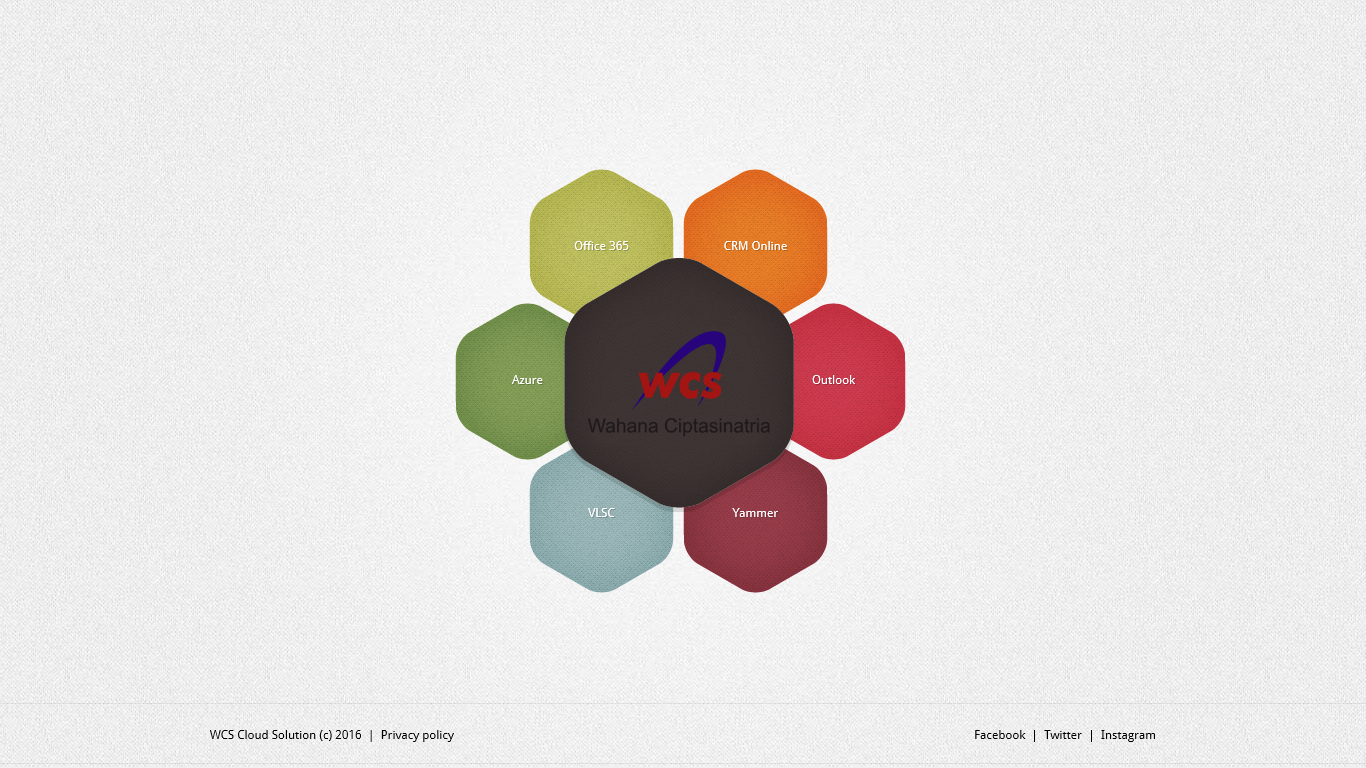
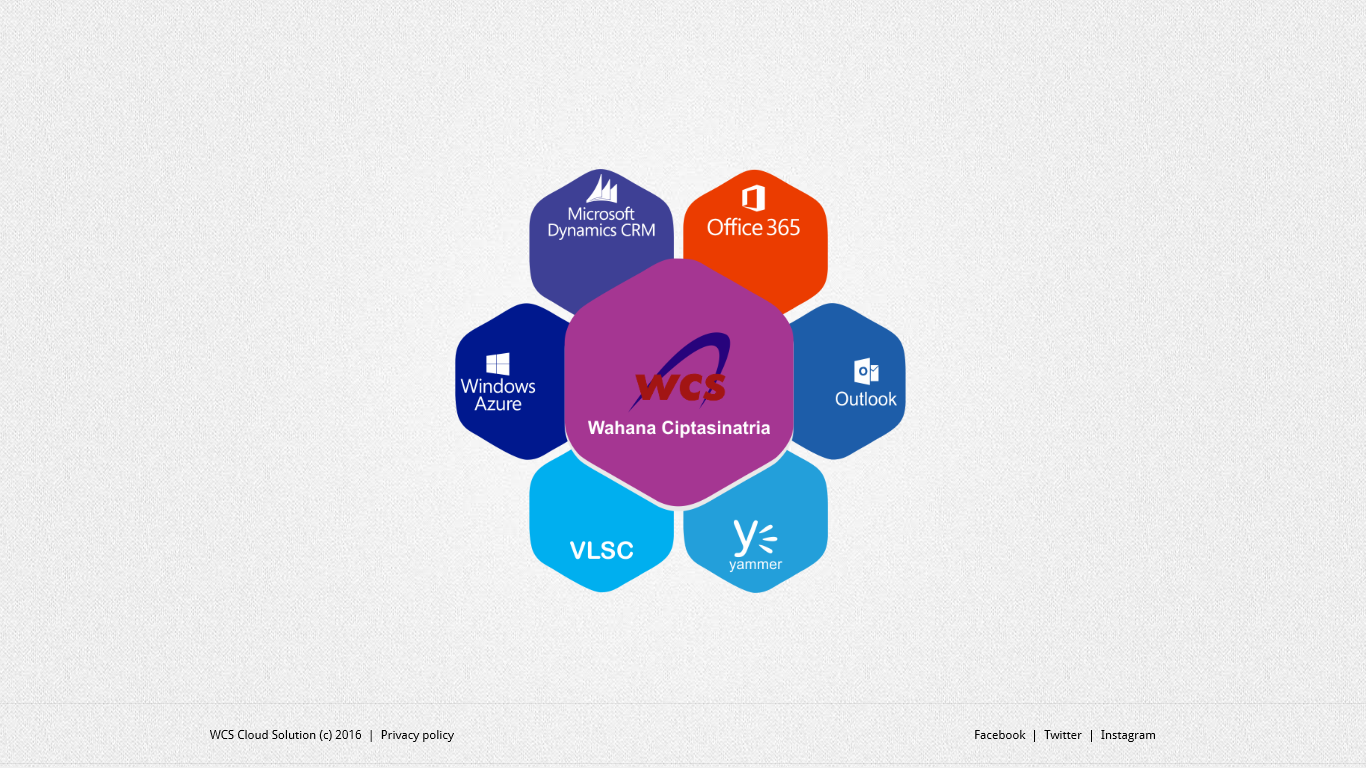
commit
update versi 3

Changed region(s): [[0.3075, 0.2188, 0.6764, 0.7812]]

diff --git a/v3/index.html b/v3/index.html
@@ -1,0 +1,45 @@
+<!DOCTYPE html>
+
+<title>Portal</title>
+
+<html lang="en">
+<head>
+  <title>Portal</title>
+  <link rel="stylesheet" href="css/wcs.css" type="text/css" media="all">
+</head>
+
+<body background="images/bg.png">
+	<div id="wrapper">
+		<div id="header">
+			<br><br>
+			<ul id="social_side_links">
+				<li><a href="https://www.facebook.com/wcs.cloudsolution/" target="_blank"><img src="images/fb.png" alt="" /></a></li>
+				<li><a href="https://twitter.com/wcscloud" target="_blank"><img src="images/tw.png" alt="" /></a></li>
+				<li><a href="https://www.instagram.com/wcscloud/" target="_blank"><img src="images/ig.png" alt="" /></a></li>
+			</ul>
+		</div>
+		<div id="content">
+			<center>
+				<img src="images/main.png" width="33%" height="33%" alt="WCS Cloud"
+				usemap="#wcsmap">
+			</center>
+
+			<map name="wcsmap">
+			  <area shape="poly" coords="224,82, 339,149, 339,279, 224,346, 109,279, 109,149" href="http://bsd.wcs.co.id" alt="WCS Cloud Solution">
+			  <area shape="poly" coords="147,-5, 219,40, 219,120, 147,160, 74,120, 74,40" href="https://port.crm5.dynamics.com/G/start/index.aspx" alt="CRM Online">
+			  <area shape="poly" coords="73,129, 145,174, 145,254, 73,294, 0,254, 0,174" href="https://portal.azure.com" alt="Microsoft Azure">
+			  <area shape="poly" coords="147,261, 219,307, 219,387, 147,427, 74,387, 74,307" href="https://www.microsoft.com/Licensing/servicecenter/default.aspx" alt="VLSC">
+			  <area shape="poly" coords="300,261, 372,307, 372,387, 300,427, 228,387, 228,307" href="https://www.yammer.com" alt="Yammer">
+			  <area shape="poly" coords="379,129, 451,174, 451,254, 379,294, 306,254, 306,174" href="https://outlook.office365.com/" alt="Outlook">
+			  <area shape="poly" coords="300,-5, 372,40, 372,120, 300,160, 228,120, 228,40" href="https://portal.office.com" alt="Office 365">
+			</map> 
+			<br>
+		</div>
+		<div id="footer">
+			<footer>
+				<center>WCS Cloud Solution (c) 2016  &nbsp;|&nbsp;  <a href="#" class="link1">Privacy policy</a></center>
+			</footer>
+		</div>
+	</div>
+</body>
+</html>

diff --git a/v3/css/wcs.css b/v3/css/wcs.css
@@ -1,0 +1,51 @@
+html,
+body {
+	margin:0;
+	padding:0;
+	height:100%;
+}
+#wrapper {
+	min-height:100%;
+	position:relative;
+}
+#header {
+	background:#ededed;
+	padding:10px;
+}
+#content {
+	padding-bottom:100px; /* Height of the footer element */
+}
+#footer {
+	width:100%;
+	height:50px;
+	position:absolute;
+	bottom:0;
+	left:0;
+}
+footer { color:#000000;}
+footer a{ color:#000000;}
+footer a:hover{}
+
+/* Social Icons */
+#social_side_links {
+	position: fixed;
+  top: 30%;
+  left: 0;
+  padding: 0;
+  list-style: none;
+  z-index: 99;
+}
+
+#social_side_links li a {display: block;}
+
+#social_side_links li a img {
+	display: block;
+	max-width:40px;
+  padding: 10px;
+  -webkit-transition:  background .2s ease-in-out;
+  -moz-transition:  background .2s ease-in-out;
+  -o-transition:  background .2s ease-in-out;
+  transition:  background .2s ease-in-out;
+}
+
+#social_side_links li a:hover img {background: rgba(0, 0, 0, .2);}

diff --git a/index.html b/index.html
@@ -48,7 +48,7 @@
                 <a href="v2"><img class="img-responsive customer-img" src="v2.png" alt=""></a>
             </div>
             <div class="col-md-2 col-sm-4 col-xs-6">
-                <img class="img-responsive customer-img" src="http://placehold.it/500x300" alt="">
+                <a href="v3"><img class="img-responsive customer-img" src="v3.png" alt=""></a>
             </div>
             <div class="col-md-2 col-sm-4 col-xs-6">
                 <img class="img-responsive customer-img" src="http://placehold.it/500x300" alt="">
